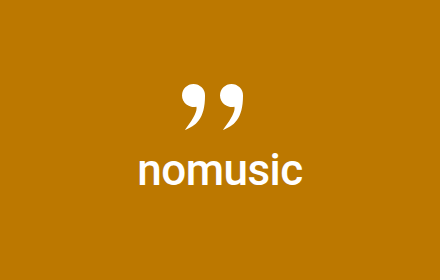
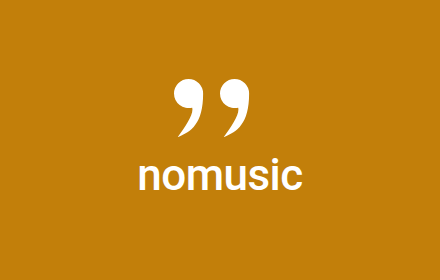
Lift the mark's amber, set it a little lower, and keep the amber off links

Changed region(s): [[0.2955, 0.5429, 0.7091, 0.6857], [0.3841, 0.2571, 0.4727, 0.4857], [0.5023, 0.2857, 0.5909, 0.4857]]

diff --git a/extension/pages.css b/extension/pages.css
@@ -11,10 +11,9 @@
   --faint: #5f6368;
   --divider: #e3e3e3;
   --accent: #9c6400; /* the mark's amber, a step deeper: white on it is 5:1 */
-  --link: #8f5c00; /* as text: 5.7:1 */
   --accent-hover: #8f5c00;
   --on-accent: #ffffff;
-  --tile: #bc7800; /* the mark's own amber */
+  --tile: #c27f0a; /* the mark's own amber */
   --on-tile: #ffffff;
   --track: #747775;
   --track-fill: #e1e3e1;
@@ -29,7 +28,6 @@
     --faint: #9aa0a6;
     --divider: #444746;
     --accent: #ecb24e; /* 8.7:1 on the page; its text 8.6:1 on it */
-    --link: #ecb24e;
     --accent-hover: #f2bb5c;
     --on-accent: #2b1d00;
     --track: #8e918f;
@@ -59,9 +57,10 @@ body {
 }
 h1 { margin: 0; font-weight: 400; }
 p { margin: 0; }
-/* Links in running text: the amber as text, underlined, as Chrome's links are
-   blue. Arabic letters hang below the line: the underline sits lower there. */
-a { color: var(--link); text-decoration: underline; text-underline-offset: 3px; }
+/* Links in running text: the text's own colour, underlined, so the one action
+   keeps the page's one colour. Arabic letters hang below the line: the
+   underline sits lower there. */
+a { color: inherit; text-decoration: underline; text-underline-offset: 3px; }
 a:hover { text-decoration-thickness: 2px; }
 [lang="ar"] a { text-underline-offset: 4px; }
 [hidden] { display: none !important; }
@@ -112,16 +111,16 @@ h1:focus:not(:focus-visible) { outline: none; }
 .welcome .brand {
   display: grid;
   place-items: center;
-  width: 40px;
-  height: 40px;
-  margin: 0 auto 32px;
-  border-radius: 10px;
+  width: 48px;
+  height: 48px;
+  margin: 0 auto 28px;
+  border-radius: 12px;
   background: var(--tile);
 }
 .welcome .brand::before {
   content: "";
-  width: 30px;
-  height: 30px;
+  width: 36px;
+  height: 36px;
   background: var(--on-tile);
   -webkit-mask: url(icons/mark.svg) center / contain no-repeat;
   mask: url(icons/mark.svg) center / contain no-repeat;
